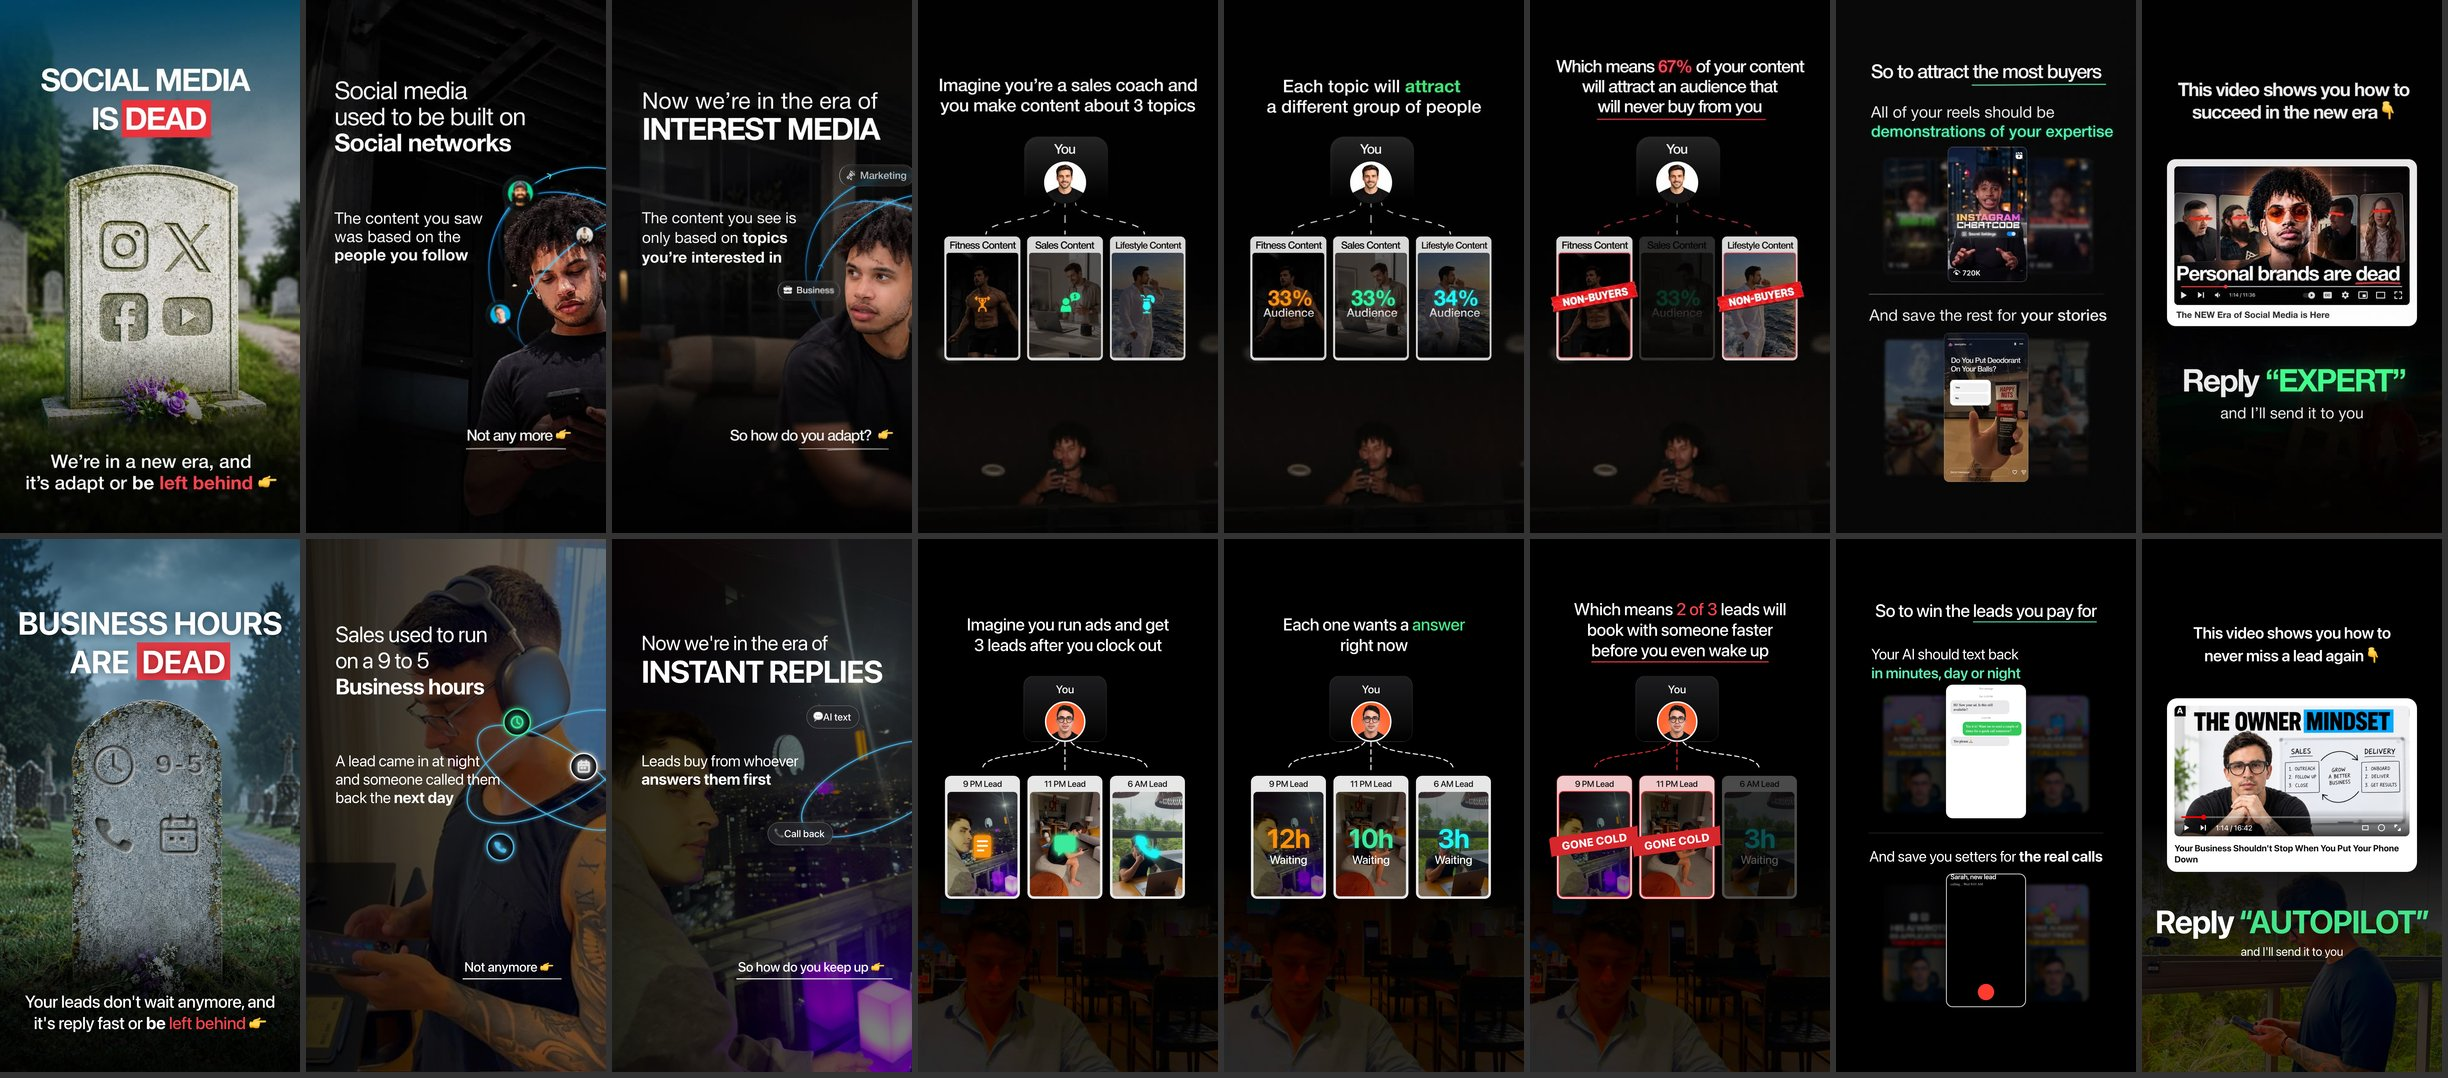
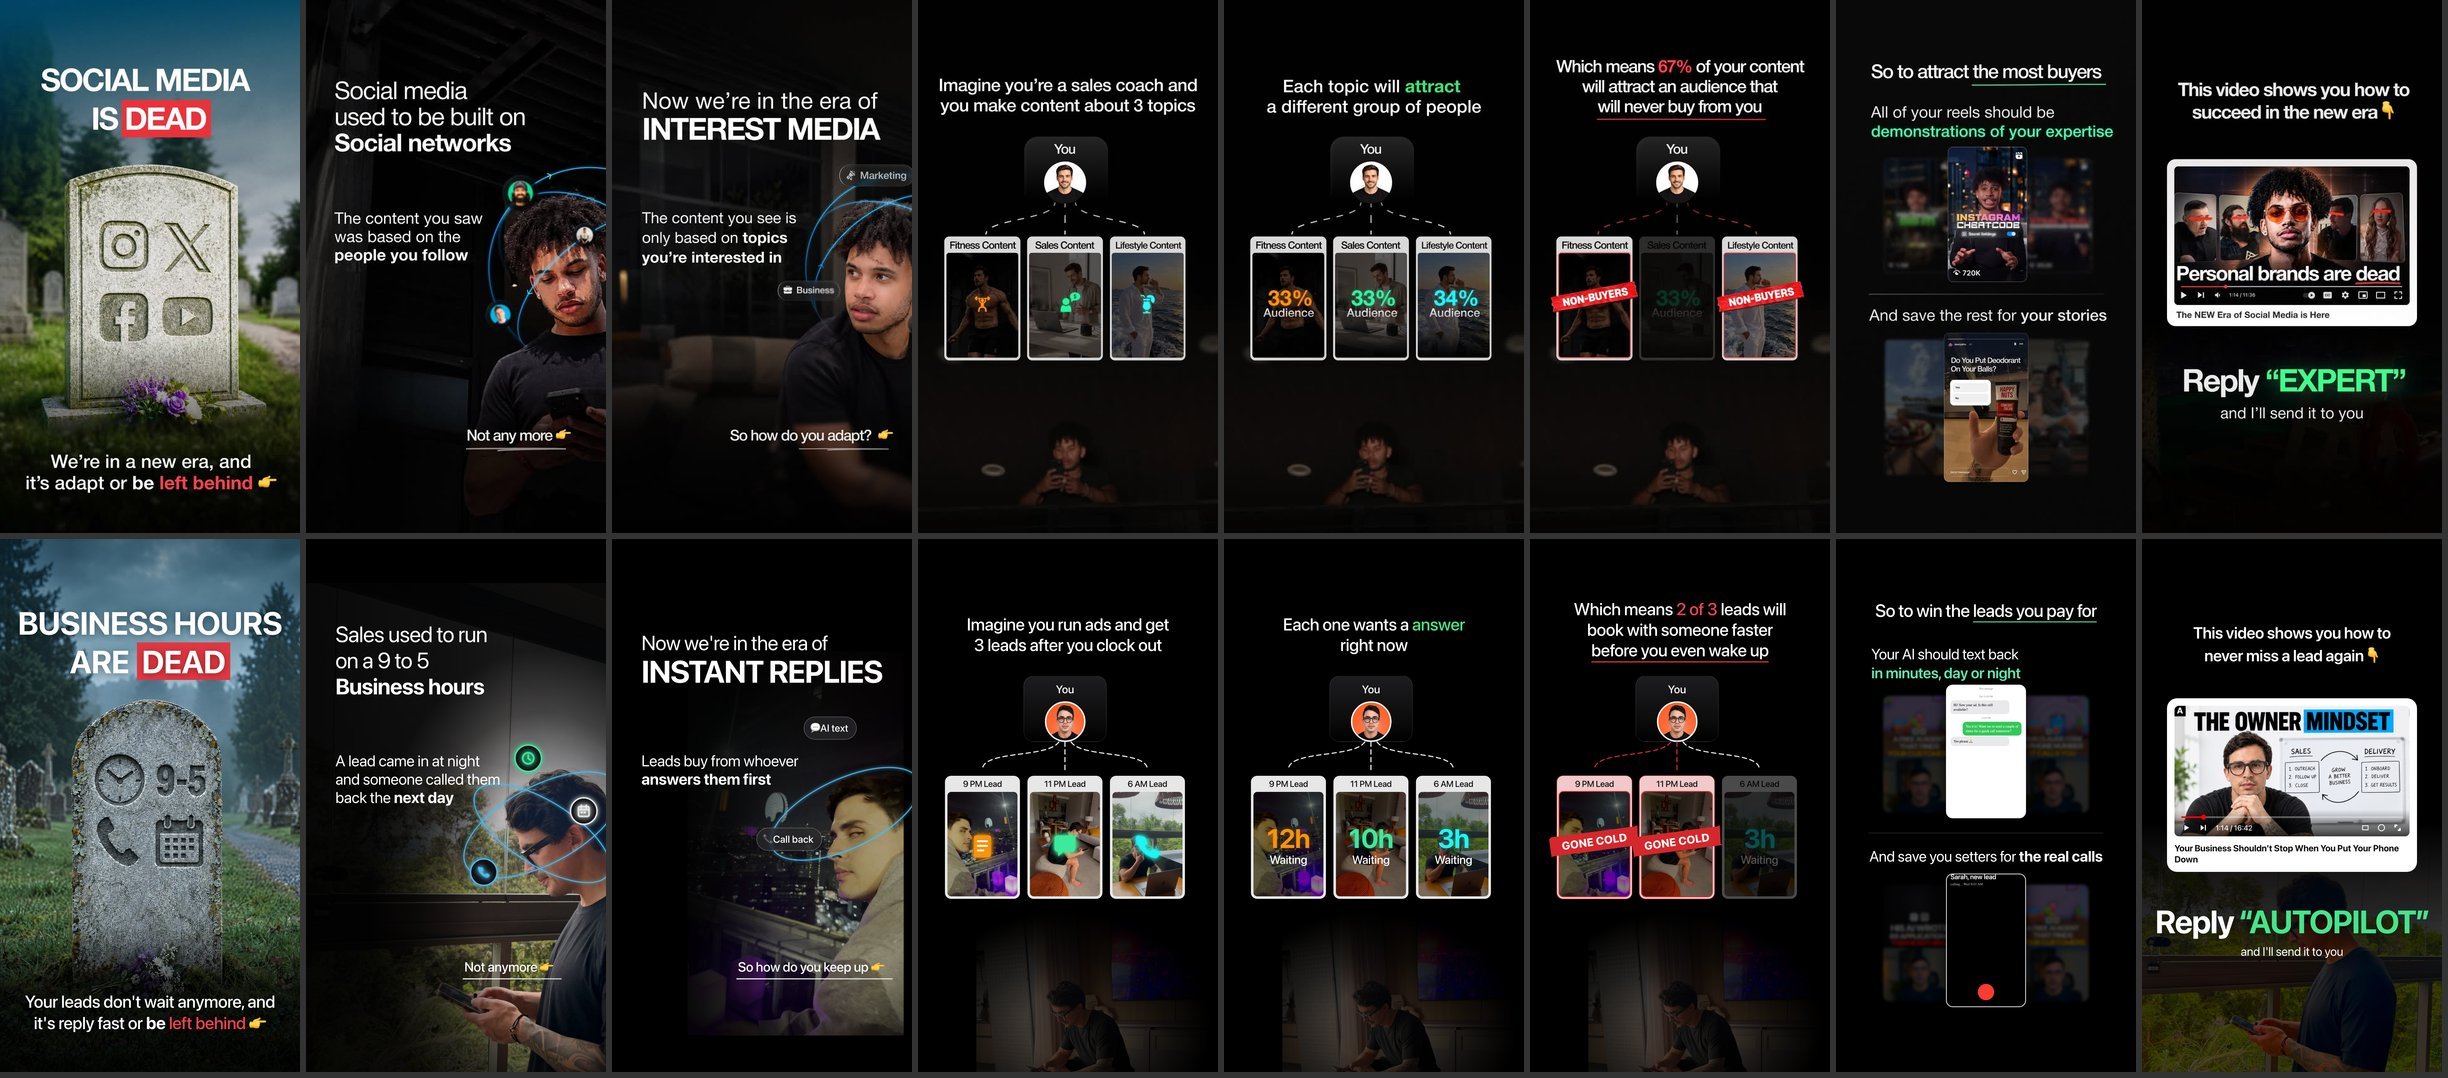
feat(stories): Devin positioning, dark tree backdrop, GPT Image 2.5 carved cover
Antonio, Oct 22: use GPT Image 2.5 for the cover, keep Devin's positioning on
the person frames, and rebuild the darker overlay on slides 4 to 6.
- Cover plate now carved by GPT Image 2.5 (clock, 9-5, phone, calendar).
- place(): face-anchored placement on black with a spotlight mask; frame 2
  lower right looking at the phone, frame 3 mirrored to face the text.
- Tree backdrop: Antonio small at bottom centre under a 45% black overlay;
  dropped b8ad871c (not Antonio). Vision score 9.0.

Changed region(s): [[0.1242, 0.4898, 0.7451, 1.0], [0.031, 0.6429, 0.0931, 0.8571]]

diff --git a/scripts/render-devin-story.ts b/scripts/render-devin-story.ts
@@ -35,6 +35,22 @@ async function photo(key: string, name: string, o: { dim?: number; w?: number; h
     await img.modulate({ brightness: o.dim ?? 1, saturation: o.sat ?? 1 }).jpeg({ quality: 90 }).toFile(file);
     return name + '.jpg';
 }
+/** Put a person where Devin puts himself: the face (fx, fy as fractions of the photo, hf = head width / photo width)
+ * lands at (x, y) with a head hp px wide, on black, optionally mirrored. Returns a 1080x1920 frame. */
+async function place(key: string, name: string, o: { face: [number, number, number]; at: [number, number, number]; flip?: boolean; dim?: number; sat?: number }) {
+    const p = pool.find(x => x.sha256.startsWith(key)); if (!p) throw Error('No pool photo ' + key);
+    let src = sharp(await photoBuffer(p.file, p.t), { failOn: 'none' }).rotate();
+    if (o.flip) src = sharp(await src.flop().toBuffer());
+    const m = await sharp(await src.clone().toBuffer()).metadata(), [fx0, fy, hf] = o.face, fx = o.flip ? 1 - fx0 : fx0, [x, y, hp] = o.at;
+    const s = hp / (hf * m.width!), W = Math.round(m.width! * s), H = Math.round(m.height! * s);
+    const left = Math.round(x - fx * W), top = Math.round(y - fy * H);
+    const scaled = await src.resize(W, H).modulate({ brightness: o.dim ?? 1, saturation: o.sat ?? 1 }).toBuffer();
+    // Crop the part that falls inside the frame, then drop it onto black.
+    const cl = Math.max(0, -left), ct = Math.max(0, -top), cw = Math.min(W - cl, 1080 - Math.max(0, left)), ch = Math.min(H - ct, 1920 - Math.max(0, top));
+    const piece = await sharp(scaled).extract({ left: cl, top: ct, width: cw, height: ch }).toBuffer();
+    await sharp({ create: { width: 1080, height: 1920, channels: 3, background: '#000' } }).composite([{ input: piece, left: Math.max(0, left), top: Math.max(0, top) }]).jpeg({ quality: 90 }).toFile(path.join(out, name + '.jpg'));
+    return name + '.jpg';
+}
 const asset = (rel: string) => { const n = path.basename(rel); copyFileSync(path.join(base, rel), path.join(out, n)); return n; };
 const ICON: Record<string, string> = {
     clock: '<circle cx="50" cy="50" r="40" fill="none" stroke="#000" stroke-width="10"/><path d="M50 26v26l17 11" fill="none" stroke="#000" stroke-width="10" stroke-linecap="round"/>',
@@ -83,13 +99,15 @@ async function frameHtml(f: any, i: number) {
     }
     if (f.type === 'person') {
         // Layers: full-bleed photo graded dark, left text column, orbit rings + avatar bubbles or topic chips, pull line.
-        const bg = await photo(f.photo, 'bg' + i, { dim: f.dim ?? .55, pos: f.pos, sat: .85 });
+        const bg = f.place ? await place(f.photo, 'bg' + i, { ...f.place, dim: f.dim ?? .8, sat: .85 }) : await photo(f.photo, 'bg' + i, { dim: f.dim ?? .55, pos: f.pos, sat: .85 });
+        // His person frames: the subject is lit and the room falls to black around them (a soft spotlight on the face).
+        const spot = f.place ? `-webkit-mask-image:radial-gradient(ellipse ${f.spot?.[0] ?? 620}px ${f.spot?.[1] ?? 900}px at ${f.place.at[0]}px ${f.place.at[1] + 260}px,#000 40%,rgba(0,0,0,.35) 75%,rgba(0,0,0,.12) 100%)` : '';
         const orbit = f.orbit ? `<svg width="1080" height="1920" style="position:absolute;inset:0"><defs><marker id="ar" markerWidth="16" markerHeight="16" refX="8" refY="8" orient="auto"><path d="M2 3 L12 8 L2 13" fill="none" stroke="${C.orbit}" stroke-width="3"/></marker></defs>
             ${f.orbit.map((o: any) => `<ellipse cx="${o.cx}" cy="${o.cy}" rx="${o.rx}" ry="${o.ry}" transform="rotate(${o.rot} ${o.cx} ${o.cy})" fill="none" stroke="${C.orbit}" stroke-width="4" opacity=".95" style="filter:drop-shadow(0 0 6px ${C.orbit})"/>`).join('')}</svg>` : '';
         // Bubbles sit on the orbit: a photo (b.img) like his avatars, or a glowing glyph (b.icon) for tools.
         const bubbles = (f.bubbles ?? []).map((b: any) => `<div style="position:absolute;left:${b.x - 50}px;top:${b.y - 50}px;width:100px;height:100px;border-radius:50%;border:5px solid ${b.ring};box-shadow:0 0 18px ${b.ring};${b.img ? `background:url(${asset(b.img)}) center/cover` : 'background:#0d0f12;display:flex;align-items:center;justify-content:center'}">${b.icon ? glyph(b.icon, b.ring, 50) : ''}</div>`).join('');
         const chips = (f.chips ?? []).map((c: any) => `<div class="chip" style="left:${c.x}px;top:${c.y}px">${c.icon ?? ''}${c.text}</div>`).join('');
-        inner = `<div class="bg" style="background-image:url(${bg})"></div>
+        inner = `<div class="bg" style="background-image:url(${bg});${spot}"></div>
           <div class="bg" style="background:linear-gradient(90deg,rgba(0,0,0,.65) 0%,rgba(0,0,0,.35) 45%,rgba(0,0,0,0) 70%)"></div>
           ${orbit}${bubbles}${chips}
           <div style="position:absolute;left:106px;top:${f.titleTop ?? 295}px;font:400 ${f.titleSize ?? 80}px/${f.titleLh ?? 94}px system-ui,-apple-system,sans-serif;letter-spacing:-1.4px">${md(f.title)}</div>
@@ -97,7 +115,8 @@ async function frameHtml(f: any, i: number) {
     }
     if (f.type === 'tree') {
         // Layers: black, dim backdrop photo at the bottom, centered title, "You" node, dashed curves, three cards.
-        const back = await photo(f.backdrop, 'back' + i, { dim: .17, w: 1080, h: 1000, pos: 'centre', sat: .7 });
+        // His tree backdrop: himself, small at the bottom centre, under a heavy dark overlay; the top is pure black.
+        const back = f.backPlace ? await place(f.backdrop, 'back' + i, { ...f.backPlace, dim: .5, sat: .7 }) : await photo(f.backdrop, 'back' + i, { dim: .17, w: 1080, h: 1000, pos: 'centre', sat: .7 });
         const st = f.state ?? 1, xs = [232, 529, 826], top = 853, cw = 270, ch = 443;
         const dashColor = (n: number) => st === 3 && f.cards[n].stamp ? C.stamp : 'rgba(255,255,255,.92)';
         const curves = xs.map((x, n) => `<path d="M${529 + (n - 1) * 22} 731 C ${529 + (n - 1) * 60} 790, ${x} 760, ${x} ${top - 22}" fill="none" stroke="${dashColor(n)}" stroke-width="4" stroke-dasharray="16 12" stroke-linecap="round"/>`).join('');
@@ -111,7 +130,8 @@ async function frameHtml(f: any, i: number) {
               <div style="position:relative;height:${ch - 67}px;border-radius:14px;overflow:hidden;background:url(${img}) center/cover;outline:${red ? `3px solid ${C.stamp}` : 'none'}">${mid}</div>
               ${red ? `<div style="position:absolute;left:-26px;right:-26px;top:200px;transform:rotate(-8deg);background:${C.stamp};color:#fff;font:800 40px/1 system-ui,-apple-system,sans-serif;letter-spacing:.5px;text-align:center;padding:16px 0;box-shadow:0 8px 20px rgba(0,0,0,.45);clip-path:polygon(0 8%,3% 0,97% 4%,100% 0,98% 92%,100% 100%,2% 96%,0 100%)">${c.stamp}</div>` : ''}</div>`;
         }));
-        inner = `<div class="bg" style="top:auto;height:1000px;background-image:url(${back});-webkit-mask-image:linear-gradient(180deg,transparent 0%,transparent 25%,#000 70%)"></div>
+        inner = (f.backPlace ? `<div class="bg" style="background-image:url(${back});-webkit-mask-image:radial-gradient(ellipse 520px 420px at 540px ${f.backPlace.at[1] + 120}px,#000 30%,rgba(0,0,0,.5) 60%,transparent 100%)"></div>
+          <div class="bg" style="background:rgba(0,0,0,.45)"></div>` : `<div class="bg" style="top:auto;height:1000px;background-image:url(${back});-webkit-mask-image:linear-gradient(180deg,transparent 0%,transparent 25%,#000 70%)"></div>`) + `
           <div class="t" style="top:${f.titleTop ?? 270}px;font:500 62px/74px system-ui,-apple-system,sans-serif;letter-spacing:-.9px">${md(f.title)}</div>
           <div style="position:absolute;left:380px;top:493px;width:299px;height:238px;border-radius:36px;background:linear-gradient(180deg,#1d1d1f 0%,#0b0b0c 70%,#000 100%);border:2px solid rgba(255,255,255,.10)">
             <div style="text-align:center;font:500 40px/1 system-ui,-apple-system,sans-serif;margin-top:26px">${f.node ?? 'You'}</div>
